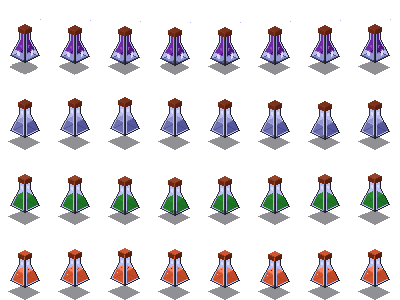
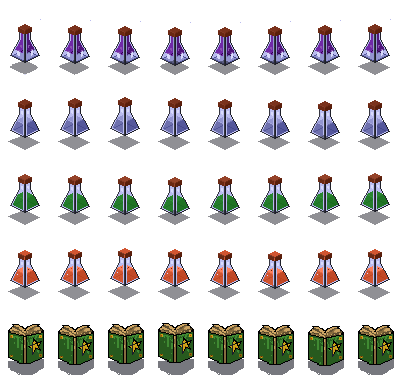
Added Spellbook into game

diff --git a/js/utilities/ImageLoading.js b/js/utilities/ImageLoading.js
@@ -18,6 +18,9 @@ var useItemPic = document.createElement("img");
 var magicMissilePic = document.createElement("img");
 var manaPotionPic = document.createElement("img");
 var healthPotionPic = document.createElement("img");
+var spellBookPic = document.createElement("img");
+var spellBookIconPic = document.createElement("img");
+
 
 
 var trackPics = [];
@@ -58,15 +61,18 @@ function loadImages() {
 			{varName: potionHealthPic, theFile: "potionTiles.png",sx: 0, sy: 0},
 			{varName: potionStaminaPic, theFile: "potionTiles.png",sx: 0, sy: 0},
 			{varName: potionLevitationPic, theFile: "potionTiles.png",sx: 0, sy: 0},
+			{varName: spellBookPic, theFile:  "potionTiles.png", sx: 0, sy: 0},
 			{varName: spellFirePic, theFile: "spellFire.png",sx: 0, sy: 0},
 			{varName: playerPositionPic, theFile: "playerPosition.png",sx: 0, sy: 0},
 			{varName: wizardMovementPic, theFile:  "wizardWalk.png", sx: 0, sy: 0},
-			{varName: wizardSpellPic, theFile:  "wizardSpell.png", sx: 0, sy: 0},
+			{varName: wizardSpellPic, theFile:  "spellbookIcon.png", sx: 0, sy: 0},
 			{varName: endTurnPic, theFile:  "endTurn.png", sx: 0, sy: 0},
 			{varName: useItemPic, theFile:  "useItem.png", sx: 0, sy: 0},
 			{varName: magicMissilePic, theFile:  "spellMagicMissle.png", sx: 0, sy: 0},
 			{varName: manaPotionPic, theFile:  "manaPotion.png", sx: 0, sy: 0},
 			{varName: healthPotionPic, theFile:  "healthPotion.png", sx: 0, sy: 0},
+			//{varName: spellBookIconPic, theFile:  "spellbookIcon.png", sx: 0, sy: 0},
+
 
 			//characters
 			{varName: wizardPic, theFile: "wizard.png"},

diff --git a/js/main.js b/js/main.js
@@ -79,7 +79,8 @@ function loadLevel(whichLevel) {
 		if( roomGrid[i] == TILE_POTION_MANA ||
 			roomGrid[i] == TILE_POTION_HEALTH ||
 			roomGrid[i] == TILE_POTION_LEVITATION ||
-			roomGrid[i] == TILE_POTION_STAMINA){
+			roomGrid[i] == TILE_POTION_STAMINA ||
+			roomGrid[i] == TILE_SPELL_BOOK){
 			
 			let whichPotion = roomGrid[i];
 			if(roomGrid[i] == TILE_POTION_MANA){
@@ -90,6 +91,8 @@ function loadLevel(whichLevel) {
 				whichPotion = "Stamina Potion";
 			} else if (roomGrid[i] == TILE_POTION_LEVITATION){
 				whichPotion = "Levitation Potion";
+			} else if (roomGrid[i] == TILE_SPELL_BOOK){
+				whichPotion = "Spell Book";
 			} else {
 				whichPotion = "Not listed";
 			}
@@ -106,6 +109,8 @@ function loadLevel(whichLevel) {
 			potionList[i].init(potionLevitationPic, 0, "Stamina Potion", TILE_POTION_LEVITATION);
 		} else if (potionList[i].myName == "Stamina Potion"){
 			potionList[i].init(potionStaminaPic, 150, "Stamina Potion", TILE_POTION_STAMINA);
+		} else if (potionList[i].myName == "Spell Book"){
+			potionList[i].init(potionStaminaPic, 300, "Spell Book", TILE_SPELL_BOOK);
 		}
 	}
 	playerOne.warriorReset();

diff --git a/js/world/world.js b/js/world/world.js
@@ -25,7 +25,7 @@ var levelOne = [							//7
 					 53,  1,  1,  2,  2,  1,  1,  1,  1,  1,  1,  1,  1,153,  1,  1,  1,  1,  1,  1,
 					 51,  1,  1,  1,  1,  1,  2,  1,  4,  1,  1,  1,  1,  1,  1,  1,  1,  1,  1,  1,
 					 54, 14,  3,  3,  2,  1,  1,  3,  1,  1,  1,  1,  1,  1,  1,  1,  1,  1,  1,  1,
-					 50, 12,  1,  4,  2,  1,100,  2,  1,  1,  1,  1,  1,152,  1,  1,  1,  1,  1,  1,
+					 50, 12,  1,  4,  2,  1,100,  2,  1,  1,154,  1,  1,152,  1,  1,  1,  1,  1,  1,
 					 50, 12,  1,  3,  1,  1,  2,  1,  1,  1,  1,  1,  1,  1,  1,  1,  1,  1,  1,  1,
 					 51, 15,  1,  1,  1,  1,  1,  1,  3,  1,  1,  1,  1,  1,  1,  1,  1,  1,  1,  1,
 					 52,  1,  1,  1,  1,  1,150,  1,  1,  1,151,  1,  1,  1,  1,  4,  1,  1,  1,  1,
@@ -82,6 +82,7 @@ var levelTwo =[
 	const TILE_POTION_HEALTH = 151;
 	const TILE_POTION_STAMINA = 152;
 	const TILE_POTION_LEVITATION = 153;
+	const TILE_SPELL_BOOK = 154;
 
 	
 function gameCoordToIsoCoord (pixelX, pixelY){

diff --git a/js/potions.js b/js/potions.js
@@ -56,8 +56,9 @@ function potionClass(potionType) {
 			this.staminaPotion++;
 		} else if (this.myName == "Levitation Potion"){
 			this.levitationPotion++;
+		} else if (this.myName == "Spell Book"){
+			
 		}
-		
 		this.reset();
 	}	
 
